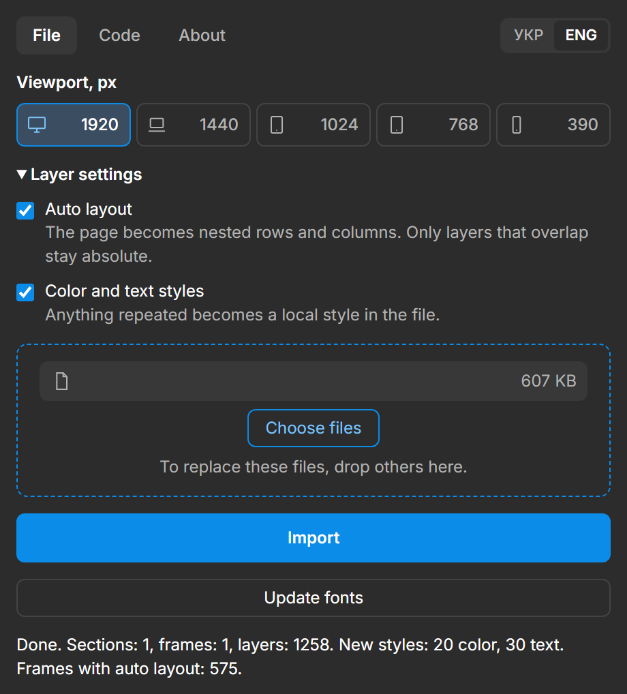
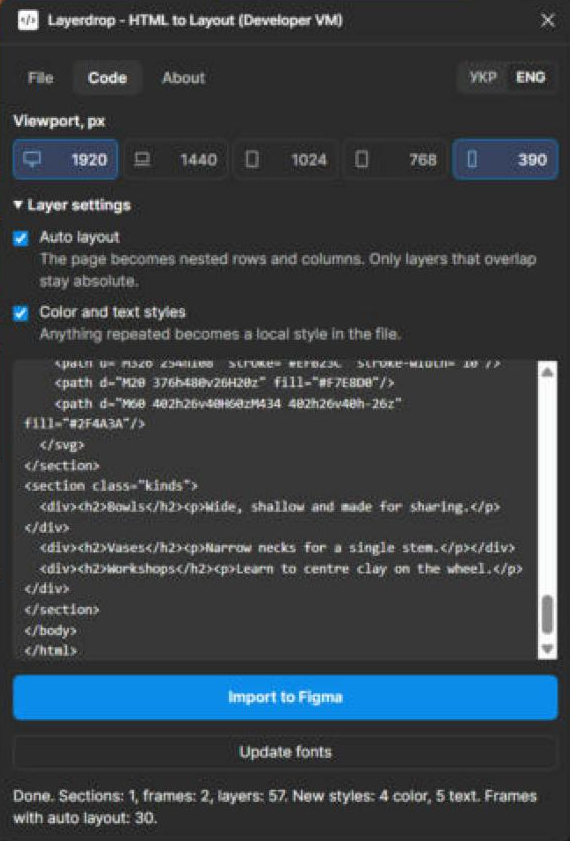
Show a real Figma import in the website hero
The demo page was imported with the plugin, so the layer tree, the styles
and the summary in the window all come from that import.

diff --git a/index.html b/index.html
@@ -20,7 +20,7 @@
 <link rel="icon" href="assets/icon.svg" type="image/svg+xml">
 <link rel="icon" href="assets/icon-128.png" type="image/png">
 <link rel="preload" href="assets/fonts/fira-sans-extra-condensed-900-cyrillic.woff2" as="font" type="font/woff2" crossorigin>
-<link rel="stylesheet" href="assets/site.css?v=4">
+<link rel="stylesheet" href="assets/site.css?v=5">
 <script src="assets/community-link.js" defer></script>
 </head>
 <body>
@@ -55,11 +55,8 @@
       <p class="status" data-community-pending>Плагін готується до публікації у Figma Community і поки недоступний для встановлення.</p>
     </div>
     <figure class="hero-shot">
-      <div class="hero-stage">
-        <div class="sheet"><img src="assets/shots/frame-1920.png" width="1920" height="864" alt="Вигадана демосторінка студії кераміки Hollow Pear на ширині 1920: меню, великий заголовок, кнопки й векторна ілюстрація."></div>
-        <img class="hero-window" src="assets/shots/window.png" width="627" height="694" alt="Вікно плагіна Layerdrop після імпорту: вибрані viewport, налаштування шарів, кнопка імпорту й підсумок із кількістю шарів і стилів.">
-      </div>
-      <figcaption>Вікно Layerdrop поверх демосторінки вигаданої студії. Сторінка показана так, як її малює браузер.</figcaption>
+      <div class="sheet"><img src="assets/shots/hero-figma.png" width="1523" height="711" alt="Figma після імпорту демосторінки Hollow Pear плагіном Layerdrop: ліворуч дерево шарів, у центрі фрейми 1920 і 390, праворуч вікно плагіна з підсумком і локальні стилі кольорів і тексту."></div>
+      <figcaption>Справжній імпорт демосторінки вигаданої студії: дерево шарів, локальні стилі й підсумок у вікні плагіна.</figcaption>
     </figure>
   </div>
 </section>
@@ -245,8 +242,8 @@
       <p class="after">Плагін відкриває сторінку в ізольованому вікні, де виконуються її скрипти, а браузер розкладає її на потрібну ширину. Потім плагін зчитує результат і створює з нього шари. Анімації при прокручуванні показуються в кінцевому стані.</p>
     </div>
     <figure>
-      <div class="sheet window-sheet"><img src="assets/shots/window.png" width="627" height="694" loading="lazy" alt="Вікно плагіна англійською: перемикачі viewport, блок налаштувань шарів, вибраний файл, кнопка імпорту й підсумок із кількістю шарів і стилів."></div>
-      <figcaption>Вікно після імпорту. Назву файла приховано. Вікно також доступне українською.</figcaption>
+      <div class="sheet window-sheet"><img src="assets/shots/window.png" width="570" height="841" loading="lazy" alt="Вікно плагіна англійською після імпорту: перемикачі viewport, налаштування шарів, вставлений код, кнопка імпорту й підсумок із кількістю шарів і стилів."></div>
+      <figcaption>Вікно після імпорту демосторінки. Воно також доступне українською.</figcaption>
     </figure>
   </div>
 </section>

diff --git a/assets/site.css b/assets/site.css
@@ -29,7 +29,7 @@ html[lang="uk"] {
   --display: "Fira Sans Extra Condensed", Impact, sans-serif;
   --display-weight: 900;
 }
-html[lang="uk"] h1 { font-size: clamp(58px, min(6.2vw, 13.5vh), 130px); line-height: 1.1; }
+html[lang="uk"] h1 { font-size: clamp(54px, min(5.9vw, 13.5vh), 124px); line-height: 1.1; }
 html[lang="uk"] h2 { line-height: 1.12; }
 
 * { box-sizing: border-box; }
@@ -64,7 +64,7 @@ p:last-child { margin-bottom: 0; }
 
 h1, h2, h3 { margin: 0; font-weight: var(--display-weight); text-transform: uppercase; color: var(--blue); }
 h1, h2 { font-family: var(--display); letter-spacing: .005em; }
-h1 { font-size: clamp(64px, min(8.4vw, 17vh), 176px); line-height: 1; }
+h1 { font-size: clamp(64px, min(7.6vw, 17vh), 160px); line-height: 1; }
 h2 { font-size: clamp(44px, 5.4vw, 96px); line-height: 1; margin-bottom: .36em; }
 h3 { font: 600 22px/1.3 var(--sans); text-transform: none; color: var(--ink); }
 
@@ -106,16 +106,13 @@ section, .page { padding: clamp(56px, 6.5vw, 112px) var(--gutter) 0; }
 .hero .mono { margin-bottom: 16px; }
 .hero-grid {
   display: grid;
-  grid-template-columns: minmax(0, 46fr) minmax(0, 54fr);
+  grid-template-columns: minmax(0, 42fr) minmax(0, 58fr);
   gap: clamp(32px, 4vw, 64px);
   align-items: center;
 }
 .hero-copy h1 { margin-bottom: 24px; }
 .hero-copy .lede { font-size: clamp(19px, 1.5vw, 24px); margin-bottom: 0; }
 .hero-shot { margin: 0 calc(-1 * var(--gutter) - 18px) 0 0; }
-/* The plugin window sits on the frame it made and hangs just past its lower edge. */
-.hero-stage { position: relative; padding-bottom: 7%; }
-.hero-window { position: absolute; top: 12%; right: calc(var(--gutter) + 8px); width: 33%; box-shadow: 8px 8px 0 var(--ink); }
 
 .actions { display: flex; flex-wrap: wrap; align-items: center; gap: 16px 24px; margin: 28px 0 0; }
 .btn {
@@ -151,6 +148,7 @@ figure { margin: 0; }
 figcaption { margin-top: 10px; font: 400 15px/1.45 var(--sans); }
 .viewports figcaption { font: 500 13px/1.45 var(--mono); }
 .hero-shot figcaption { padding-right: calc(var(--gutter) + 18px); }
+.hero-shot .sheet { --fold: clamp(24px, 3vw, 56px); }
 .sheet + figcaption { margin-top: 28px; }
 
 /* Rows split by a 3 px rule, never cards */
@@ -255,8 +253,6 @@ footer nav a { padding: 6px 0; }
   .hero-copy .lede { order: 4; margin-top: 32px; font-size: 20px; }
   .hero-copy .actions { order: 5; }
   .hero-copy .status { order: 6; }
-  .hero-stage { padding-bottom: 24%; }
-  .hero-window { width: 40%; top: auto; bottom: 0; right: calc(var(--gutter) + 18px); }
   .how, .widths { grid-template-columns: 1fr; }
   .how figure { max-width: 420px; }
 }
@@ -287,8 +283,6 @@ footer nav a { padding: 6px 0; }
   .ways > div { padding: 22px 0; }
   .ways > div + div { padding: 22px 0; border-left: 0; border-top: 3px solid var(--ink); }
   html[lang="uk"] h1 { font-size: 14.4vw; }
-  .hero-stage { padding-bottom: 55%; }
-  .hero-window { width: 62%; }
   html[lang="en"] h1 { font-size: 18.5vw; }
   .plans { grid-template-columns: 1fr; }
   .plan, .plan + .plan { padding: 20px 0; border-left: 0; }

diff --git a/en/index.html b/en/index.html
@@ -20,7 +20,7 @@
 <link rel="icon" href="../assets/icon.svg" type="image/svg+xml">
 <link rel="icon" href="../assets/icon-128.png" type="image/png">
 <link rel="preload" href="../assets/fonts/anton-400-latin.woff2" as="font" type="font/woff2" crossorigin>
-<link rel="stylesheet" href="../assets/site.css?v=4">
+<link rel="stylesheet" href="../assets/site.css?v=5">
 <script src="../assets/community-link.js" defer></script>
 </head>
 <body>
@@ -55,11 +55,8 @@
       <p class="status" data-community-pending>The plugin is being prepared for Figma Community and can't be installed yet.</p>
     </div>
     <figure class="hero-shot">
-      <div class="hero-stage">
-        <div class="sheet"><img src="../assets/shots/frame-1920.png" width="1920" height="864" alt="An invented demo page for the Hollow Pear ceramics studio at 1920 wide: menu, large heading, buttons and a vector illustration."></div>
-        <img class="hero-window" src="../assets/shots/window.png" width="627" height="694" alt="The Layerdrop plugin window after an import: selected viewports, layer settings, the Import button and a summary of layers and styles.">
-      </div>
-      <figcaption>The Layerdrop window over a demo page for an invented studio, shown as a browser renders it.</figcaption>
+      <div class="sheet"><img src="../assets/shots/hero-figma.png" width="1523" height="711" alt="Figma after importing the Hollow Pear demo page with Layerdrop: the layer tree on the left, 1920 and 390 frames in the middle, and on the right the plugin window with its summary and local color and text styles."></div>
+      <figcaption>A real import of a demo page for an invented studio: the layer tree, local styles and the summary in the plugin window.</figcaption>
     </figure>
   </div>
 </section>
@@ -245,8 +242,8 @@
       <p class="after">The plugin opens the page in an isolated frame, where its scripts run and the browser lays it out at the width you chose. Then the plugin reads the result and builds layers from it. Scroll animations appear in their final state.</p>
     </div>
     <figure>
-      <div class="sheet window-sheet"><img src="../assets/shots/window.png" width="627" height="694" loading="lazy" alt="The plugin window: viewport switches, layer settings, the chosen file, the Import button and a summary with the number of layers and styles."></div>
-      <figcaption>The window after an import, with the file name hidden.</figcaption>
+      <div class="sheet window-sheet"><img src="../assets/shots/window.png" width="570" height="841" loading="lazy" alt="The plugin window after an import: viewport switches, layer settings, pasted code, the Import button and a summary of layers and styles."></div>
+      <figcaption>The window after importing the demo page.</figcaption>
     </figure>
   </div>
 </section>

diff --git a/privacy/index.html b/privacy/index.html
@@ -13,7 +13,7 @@
 <link rel="icon" href="../assets/icon.svg" type="image/svg+xml">
 <link rel="icon" href="../assets/icon-128.png" type="image/png">
 <link rel="preload" href="../assets/fonts/fira-sans-extra-condensed-900-cyrillic.woff2" as="font" type="font/woff2" crossorigin>
-<link rel="stylesheet" href="../assets/site.css?v=4">
+<link rel="stylesheet" href="../assets/site.css?v=5">
 <script src="../assets/community-link.js" defer></script>
 </head>
 <body>

diff --git a/en/privacy/index.html b/en/privacy/index.html
@@ -13,7 +13,7 @@
 <link rel="icon" href="../../assets/icon.svg" type="image/svg+xml">
 <link rel="icon" href="../../assets/icon-128.png" type="image/png">
 <link rel="preload" href="../../assets/fonts/anton-400-latin.woff2" as="font" type="font/woff2" crossorigin>
-<link rel="stylesheet" href="../../assets/site.css?v=4">
+<link rel="stylesheet" href="../../assets/site.css?v=5">
 <script src="../../assets/community-link.js" defer></script>
 </head>
 <body>

diff --git a/404.html b/404.html
@@ -8,7 +8,7 @@
 <base href="/layerdrop/">
 <link rel="icon" href="assets/icon.svg" type="image/svg+xml">
 <link rel="preload" href="assets/fonts/anton-400-latin.woff2" as="font" type="font/woff2" crossorigin>
-<link rel="stylesheet" href="assets/site.css?v=4">
+<link rel="stylesheet" href="assets/site.css?v=5">
 </head>
 <body>
 <main class="page">

diff --git a/README.md b/README.md
@@ -20,17 +20,18 @@
 
 | Файл | Розмір | Що показує |
 |---|---|---|
-| `frame-1920.png` | 1920×864 | Демосторінка на ширині 1920 |
+| `hero-figma.png` | 1523×711 | Перший екран: справжній імпорт демосторінки у Figma, знятий із застосунку |
+| `frame-1920.png` | 1920×864 | Демосторінка на ширині 1920, лише для `share-cover.png` |
 | `frame-768.png` | 768×941 | Демосторінка на ширині 768 |
 | `frame-390.png` | 390×829 | Демосторінка на ширині 390 |
-| `window.png` | 627×694 | Вікно плагіна після імпорту, назва файла зафарбована |
+| `window.png` | 570×841 | Вікно плагіна після того самого імпорту |
 | `fonts-warning.png` | 627×152 | Блок про відсутні шрифти |
 | `viewport-bar.png` | 904×100 | Перемикачі viewport |
 | `share-cover.png` | 1920×1080 | Картинка для соцмереж |
 
-Кадри `frame-*` це вигляд вигаданої сторінки `tools/demo/index.html` у браузері, а не результат імпорту, і підпис на сайті так і каже. Її можна імпортувати плагіном, експортувати фрейми в PNG, покласти сюди й змінити підпис.
+Кадри `frame-*` це вигляд вигаданої сторінки `tools/demo/index.html` у браузері, а не результат імпорту. `hero-figma.png` і `window.png` зняті з Figma після її справжнього імпорту. Після публікації їх варто зняти ще раз, бо зараз у заголовку вікна написано Developer VM.
 
-Скрипти в `tools/` працюють лише в основному репозиторії: `render-shots.py` малює кадри й обкладинку, `crop-shots.py` вирізає вікно плагіна зі слайдів `docs/community/`.
+Скрипти в `tools/` працюють лише в основному репозиторії: `render-shots.py` малює кадри й обкладинку, `crop-shots.py` вирізає перемикачі й блок шрифтів зі слайдів `docs/community/`.
 
 ## Шрифти
 
